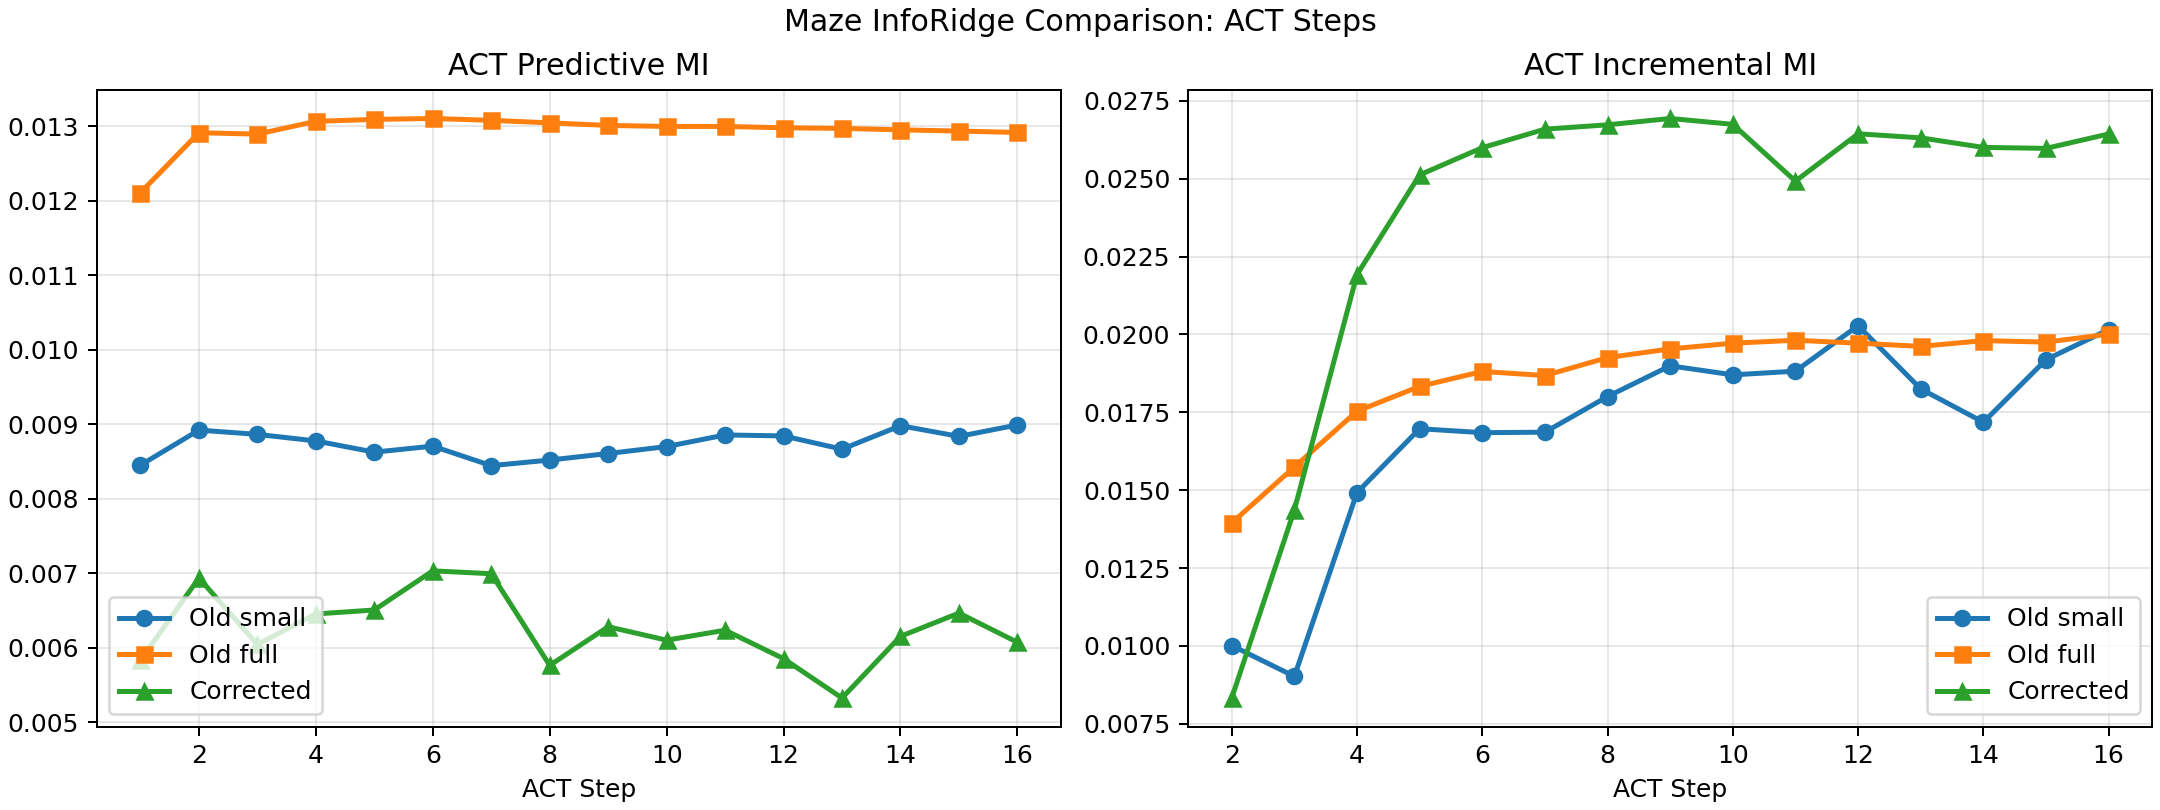
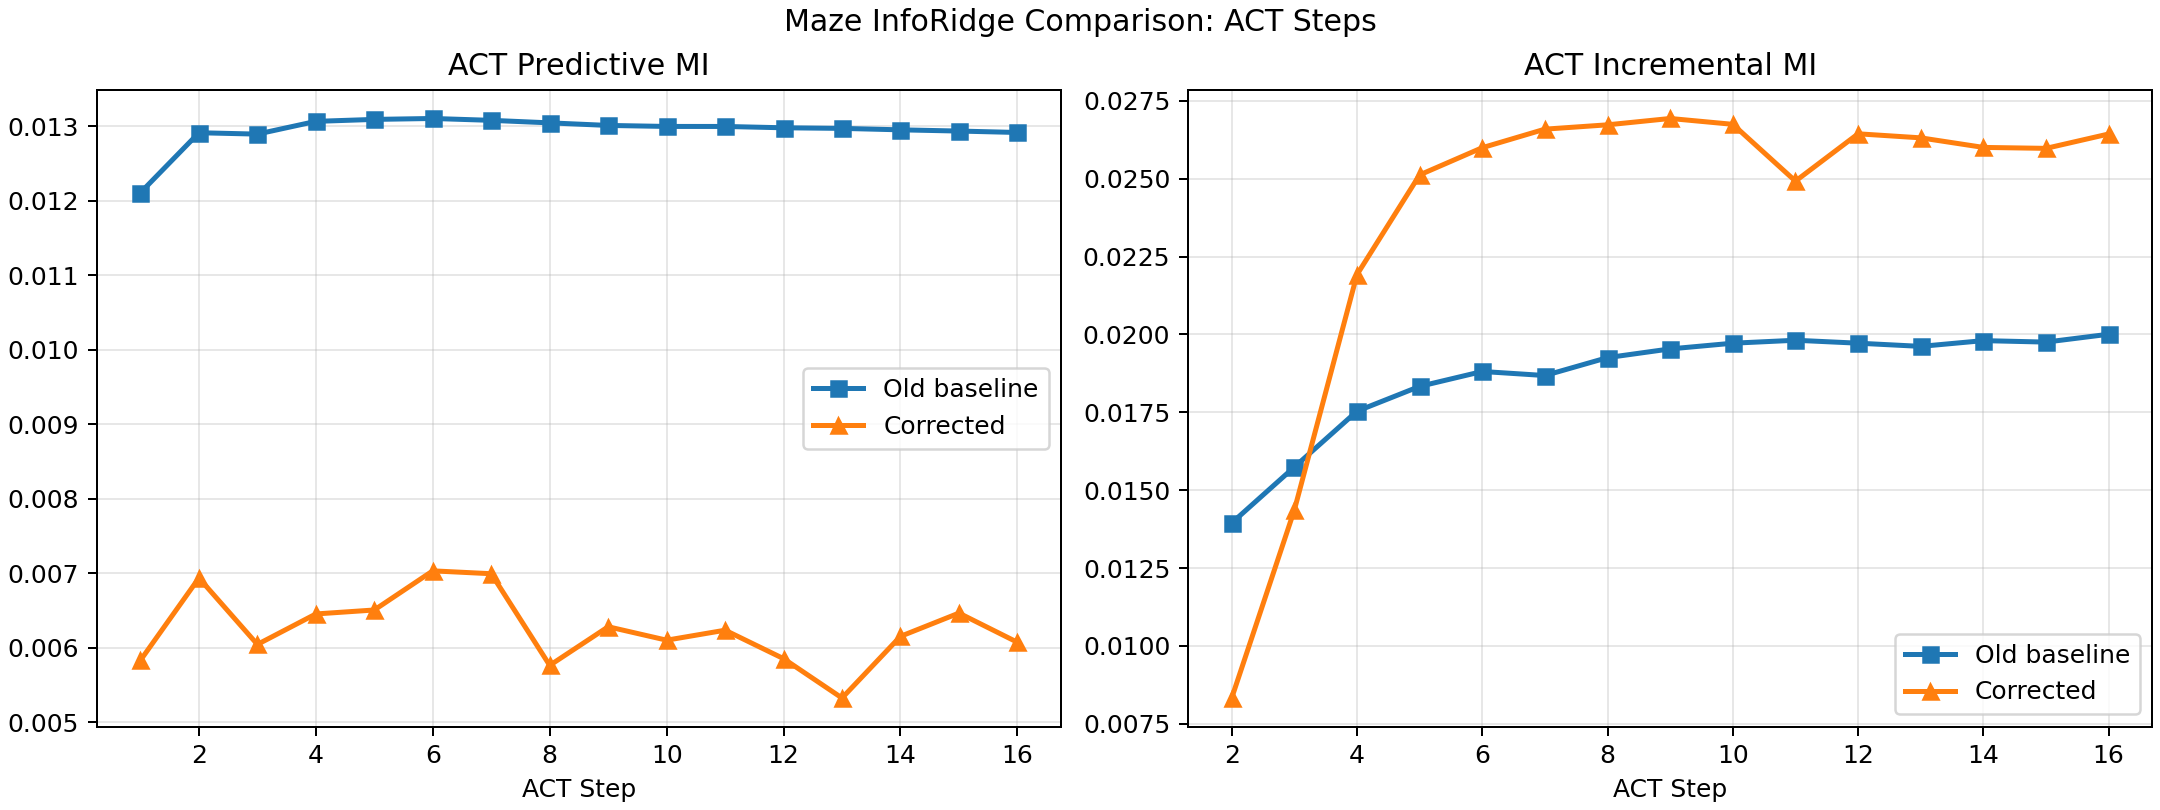
add gated residual learning

diff --git a/scripts/plot_maze_comparison.py b/scripts/plot_maze_comparison.py
@@ -55,6 +55,19 @@ def read_act(path: Path) -> dict[str, list[float]]:
     }
 
 
+def _panel_max(*series_lists: list[float]) -> float:
+    values = []
+    for series in series_lists:
+        values.extend(value for value in series if value == value)
+    return max(values) if values else 1.0
+
+
+def _scale_percent(series: list[float], denom: float) -> list[float]:
+    if denom <= 0:
+        return [float("nan") if value != value else 0.0 for value in series]
+    return [float("nan") if value != value else (100.0 * value / denom) for value in series]
+
+
 def plot_eval(old_eval: dict[str, list[float]], new_eval: dict[str, list[float]], output_path: Path) -> None:
     fig, axes = plt.subplots(2, 2, figsize=(12, 8), constrained_layout=True)
     series = [
@@ -93,8 +106,7 @@ def plot_layerwise(
     ]
 
     for layer_type, key, ax, title in panels:
-        ax.plot(old_small[layer_type]["layer_index"], old_small[layer_type][key], marker="o", linewidth=2, label="Old small")
-        ax.plot(old_full[layer_type]["layer_index"], old_full[layer_type][key], marker="s", linewidth=2, label="Old full")
+        ax.plot(old_full[layer_type]["layer_index"], old_full[layer_type][key], marker="s", linewidth=2, label="Old baseline")
         ax.plot(new[layer_type]["layer_index"], new[layer_type][key], marker="^", linewidth=2, label="Corrected")
         ax.set_title(title)
         ax.set_xlabel("Layer Index")
@@ -102,6 +114,52 @@ def plot_layerwise(
         ax.legend()
 
     fig.suptitle("Maze InfoRidge Comparison: Layerwise")
+    output_path.parent.mkdir(parents=True, exist_ok=True)
+    fig.savefig(output_path, dpi=180)
+    plt.close(fig)
+
+
+def plot_layerwise_percent(
+    old_small: dict[str, dict[str, list[float]]],
+    old_full: dict[str, dict[str, list[float]]],
+    new: dict[str, dict[str, list[float]]],
+    output_path: Path,
+) -> None:
+    fig, axes = plt.subplots(2, 2, figsize=(12, 8), constrained_layout=True)
+    panels = [
+        ("H", "I_Z_Y", axes[0, 0], "H Predictive MI (% of panel max)"),
+        ("L", "I_Z_Y", axes[0, 1], "L Predictive MI (% of panel max)"),
+        ("H", "I_dZ_Y", axes[1, 0], "H Incremental MI (% of panel max)"),
+        ("L", "I_dZ_Y", axes[1, 1], "L Incremental MI (% of panel max)"),
+    ]
+
+    for layer_type, key, ax, title in panels:
+        denom = _panel_max(
+            old_full[layer_type][key],
+            new[layer_type][key],
+        )
+        ax.plot(
+            old_full[layer_type]["layer_index"],
+            _scale_percent(old_full[layer_type][key], denom),
+            marker="s",
+            linewidth=2,
+            label="Old baseline",
+        )
+        ax.plot(
+            new[layer_type]["layer_index"],
+            _scale_percent(new[layer_type][key], denom),
+            marker="^",
+            linewidth=2,
+            label="Corrected",
+        )
+        ax.set_title(title)
+        ax.set_xlabel("Layer Index")
+        ax.set_ylabel("Percent")
+        ax.set_ylim(0, 105)
+        ax.grid(alpha=0.3)
+        ax.legend()
+
+    fig.suptitle("Maze InfoRidge Comparison: Layerwise (% of panel max)")
     output_path.parent.mkdir(parents=True, exist_ok=True)
     fig.savefig(output_path, dpi=180)
     plt.close(fig)
@@ -120,8 +178,7 @@ def plot_act(
     ]
 
     for key, ax, title in panels:
-        ax.plot(old_small["act_step"], old_small[key], marker="o", linewidth=2, label="Old small")
-        ax.plot(old_full["act_step"], old_full[key], marker="s", linewidth=2, label="Old full")
+        ax.plot(old_full["act_step"], old_full[key], marker="s", linewidth=2, label="Old baseline")
         ax.plot(new["act_step"], new[key], marker="^", linewidth=2, label="Corrected")
         ax.set_title(title)
         ax.set_xlabel("ACT Step")
@@ -129,6 +186,35 @@ def plot_act(
         ax.legend()
 
     fig.suptitle("Maze InfoRidge Comparison: ACT Steps")
+    output_path.parent.mkdir(parents=True, exist_ok=True)
+    fig.savefig(output_path, dpi=180)
+    plt.close(fig)
+
+
+def plot_act_percent(
+    old_small: dict[str, list[float]],
+    old_full: dict[str, list[float]],
+    new: dict[str, list[float]],
+    output_path: Path,
+) -> None:
+    fig, axes = plt.subplots(1, 2, figsize=(12, 4.5), constrained_layout=True)
+    panels = [
+        ("I_Z_Y", axes[0], "ACT Predictive MI (% of panel max)"),
+        ("I_dZ_Y", axes[1], "ACT Incremental MI (% of panel max)"),
+    ]
+
+    for key, ax, title in panels:
+        denom = _panel_max(old_full[key], new[key])
+        ax.plot(old_full["act_step"], _scale_percent(old_full[key], denom), marker="s", linewidth=2, label="Old baseline")
+        ax.plot(new["act_step"], _scale_percent(new[key], denom), marker="^", linewidth=2, label="Corrected")
+        ax.set_title(title)
+        ax.set_xlabel("ACT Step")
+        ax.set_ylabel("Percent")
+        ax.set_ylim(0, 105)
+        ax.grid(alpha=0.3)
+        ax.legend()
+
+    fig.suptitle("Maze InfoRidge Comparison: ACT Steps (% of panel max)")
     output_path.parent.mkdir(parents=True, exist_ok=True)
     fig.savefig(output_path, dpi=180)
     plt.close(fig)
@@ -150,10 +236,14 @@ def main() -> None:
     plot_eval(old_eval, new_eval, output_dir / "eval_comparison.png")
     plot_layerwise(old_small, old_full, new, output_dir / "layerwise_inforidge_comparison.png")
     plot_act(old_act, old_full_act, new_act, output_dir / "act_inforidge_comparison.png")
+    plot_layerwise_percent(old_small, old_full, new, output_dir / "layerwise_inforidge_percentage_comparison.png")
+    plot_act_percent(old_act, old_full_act, new_act, output_dir / "act_inforidge_percentage_comparison.png")
 
     print(f"Wrote {output_dir / 'eval_comparison.png'}")
     print(f"Wrote {output_dir / 'layerwise_inforidge_comparison.png'}")
     print(f"Wrote {output_dir / 'act_inforidge_comparison.png'}")
+    print(f"Wrote {output_dir / 'layerwise_inforidge_percentage_comparison.png'}")
+    print(f"Wrote {output_dir / 'act_inforidge_percentage_comparison.png'}")
 
 
 if __name__ == "__main__":

diff --git a/models/hrm/hrm_act_v1.py b/models/hrm/hrm_act_v1.py
@@ -54,6 +54,9 @@ class HierarchicalReasoningModel_ACTV1Config(BaseModel):
     halt_max_steps: int
     halt_exploration_prob: float
     eval_use_halt_policy: bool = False
+    carry_residual_gated: bool = False
+    carry_gate_init: float = 0.95
+    carry_gate_per_channel: bool = True
 
     forward_dtype: str = "bfloat16"
 
@@ -152,6 +155,13 @@ class HierarchicalReasoningModel_ACTV1_Inner(nn.Module):
             self.q_head.weight.zero_()
             self.q_head.bias.fill_(-5)  # type: ignore
 
+        if self.config.carry_residual_gated:
+            gate_init = min(max(float(self.config.carry_gate_init), 1e-4), 1.0 - 1e-4)
+            init_logit = math.log(gate_init / (1.0 - gate_init))
+            gate_shape = (self.config.hidden_size,) if self.config.carry_gate_per_channel else ()
+            self.carry_gate_H = nn.Parameter(torch.full(gate_shape, init_logit, dtype=torch.float32))
+            self.carry_gate_L = nn.Parameter(torch.full(gate_shape, init_logit, dtype=torch.float32))
+
     def _input_embeddings(self, input: torch.Tensor, puzzle_identifiers: torch.Tensor):
         # Token embedding
         embedding = self.embed_tokens(input.to(torch.int32))
@@ -185,6 +195,12 @@ class HierarchicalReasoningModel_ACTV1_Inner(nn.Module):
             z_H=torch.where(reset_flag.view(-1, 1, 1), self.H_init, carry.z_H),
             z_L=torch.where(reset_flag.view(-1, 1, 1), self.L_init, carry.z_L),
         )
+
+    def _blend_carry(self, prev: torch.Tensor, candidate: torch.Tensor, gate_param: torch.Tensor) -> torch.Tensor:
+        gate = torch.sigmoid(gate_param).to(candidate.dtype)
+        if gate.ndim == 1:
+            gate = gate.view(1, 1, -1)
+        return prev + (1.0 - gate) * (candidate - prev)
 
     def forward(self, carry: HierarchicalReasoningModel_ACTV1InnerCarry, batch: Dict[str, torch.Tensor], return_layer_states: bool = False, return_z: bool = False) -> Tuple[HierarchicalReasoningModel_ACTV1InnerCarry, torch.Tensor, Tuple[torch.Tensor, torch.Tensor], Optional[Dict[str, List[torch.Tensor]]], Optional[Tuple[torch.Tensor, torch.Tensor]]]:
         seq_info = dict(
@@ -220,6 +236,10 @@ class HierarchicalReasoningModel_ACTV1_Inner(nn.Module):
         else:
             z_L = self.L_level(z_L, z_H + input_embeddings, **seq_info)
             z_H = self.H_level(z_H, z_L, **seq_info)
+
+        if self.config.carry_residual_gated:
+            z_H = self._blend_carry(carry.z_H, z_H, self.carry_gate_H)
+            z_L = self._blend_carry(carry.z_L, z_L, self.carry_gate_L)
 
         # LM Outputs
         new_carry = HierarchicalReasoningModel_ACTV1InnerCarry(z_H=z_H.detach(), z_L=z_L.detach())  # New carry no grad

diff --git a/analysis/compare-maze-old-vs-corrected/summary.md b/analysis/compare-maze-old-vs-corrected/summary.md
@@ -1,120 +1,33 @@
-# Maze HRM Comparison: Old Run vs Corrected Run
+# Maze HRM: Old vs Corrected
 
-## Inputs compared
+This comparison was regenerated from the saved source CSVs after the comparison folder was removed.
 
-- Old training run: `analysis/hrm-training-step7810/eval_metrics.csv`
-- Old InfoRidge (small/full test variants): `analysis/inforidge-step7810/` and `analysis/inforidge-step7810-fulltest/`
-- Corrected training run: `analysis/hrm-training-4090-6gpu-corrected/eval_metrics.csv`
-- Corrected InfoRidge from the best checkpoint weights (`step_20832.pt`, loaded as model-only, so filenames use `step_0`): `analysis/inforidge-4090-6gpu-corrected-step20832/`
+## Selected Comparison Set
+
+- `Old`: same old checkpoint, InfoRidge from `analysis/inforidge-step7810-fulltest/`
+- `New-corrected`: corrected maze run, eval from `analysis/hrm-training-4090-6gpu-corrected/eval_metrics.csv`, InfoRidge from `analysis/inforidge-4090-6gpu-corrected-step20832/`
 
 ## Plots
 
-- Eval comparison: `analysis/compare-maze-old-vs-corrected/eval_comparison.png`
-- Layerwise InfoRidge comparison: `analysis/compare-maze-old-vs-corrected/layerwise_inforidge_comparison.png`
-- ACT-step InfoRidge comparison: `analysis/compare-maze-old-vs-corrected/act_inforidge_comparison.png`
+These displayed InfoRidge plots use one old baseline plus the corrected run.
 
-## Main outcome
+- `Old baseline` means the `Old-full` probe from `analysis/inforidge-step7810-fulltest/`
+- `Old-small` is kept only as a saved artifact in the repo, not as a displayed comparison curve
 
-The corrected run is a large improvement over the old run. The old run peaked at exact accuracy `0.068` on step `7810`. The corrected run peaked at exact accuracy `0.726` on step `20832`.
+![Eval Comparison](./eval_comparison.png)
 
-This means the earlier weak maze result was not evidence that HRM fundamentally fails on maze under the corrected setup. The corrected run clearly solves the task much better.
+![Layerwise InfoRidge Comparison](./layerwise_inforidge_comparison.png)
 
-## Evaluation comparison
+![ACT InfoRidge Comparison](./act_inforidge_comparison.png)
 
-Old run best checkpoint:
+## Percentage-Normalized InfoRidge Views
 
-- Step: `7810`
-- Accuracy: `0.9628268`
-- Exact accuracy: `0.068`
-- LM loss: `0.10443103`
-- Steps: `16.0`
+These two plots keep the same simplified baseline choice.
 
-Corrected run best checkpoint:
+Each panel is scaled so that the strongest value in that panel across the shown runs is `100%`.
 
-- Step: `20832`
-- Accuracy: `0.9912611`
-- Exact accuracy: `0.726`
-- LM loss: `0.04901285`
-- Steps: `16.0`
+![Layerwise InfoRidge Percentage Comparison](./layerwise_inforidge_percentage_comparison.png)
 
-Interpretation:
+![ACT InfoRidge Percentage Comparison](./act_inforidge_percentage_comparison.png)
 
-- Task performance improved dramatically.
-- The model still uses the full ACT budget (`16.0`) throughout evaluation.
-- The final corrected checkpoint (`34720`) collapses back to exact accuracy `0.065`, so checkpoint selection / early stopping matters.
-
-## Layerwise InfoRidge comparison
-
-Old small-test predictive MI:
-
-- `H`: `[0.5522, 0.5032, 0.5487, 0.5448]`
-- `L`: `[0.5750, 0.5732, 0.5687, 0.5374]`
-
-Old full-test predictive MI:
-
-- `H`: `[0.5387, 0.4975, 0.5435, 0.5327]`
-- `L`: `[0.5455, 0.5494, 0.5431, 0.5067]`
-
-Corrected run predictive MI:
-
-- `H`: `[0.5597, 0.5624, 0.4952, 0.4321]`
-- `L`: `[0.5147, 0.5300, 0.5514, 0.5456]`
-
-Ridge location shift:
-
-- Old small-test ridge: `H0`, `L0`
-- Old full-test ridge: `H2`, `L1`
-- Corrected ridge: `H1`, `L2`
-
-Interpretation:
-
-- The corrected successful run is more front-loaded in `H`: the strongest predictive MI is at `H1`, then later `H` layers fall off.
-- The corrected successful run is more back-loaded in `L`: the strongest predictive MI is at `L2`, with `L3` staying high.
-- Relative to the weak run, information appears to move away from shallow `L0/L1` dominance and toward deeper low-level processing.
-
-## ACT-step InfoRidge comparison
-
-Old small-test ACT predictive MI:
-
-- First: `0.00845`
-- Max: `0.00899`
-- Max incremental MI: `0.02028`
-
-Old full-test ACT predictive MI:
-
-- First: `0.01211`
-- Max: `0.01311`
-- Max incremental MI: `0.02001`
-
-Corrected ACT predictive MI:
-
-- First: `0.00583`
-- Max: `0.00703`
-- Max incremental MI: `0.02694`
-
-Interpretation:
-
-- Absolute ACT predictive MI is lower in the corrected successful run.
-- ACT incremental MI is higher in the corrected successful run.
-- So the corrected run does not win by having a more information-rich pooled ACT state at each step. It wins by making larger representation changes across ACT steps.
-
-This is important: absolute `I(Z;Y)` at the ACT-step level is not monotonic with task success in these saved runs. The more useful signal here is the stronger per-step update magnitude (`I(dZ;Y)`).
-
-## Decision
-
-Move forward with HRM on maze under the corrected training setup.
-
-Do not use the old weak maze run as the main reference anymore. It is now dominated by the corrected run.
-
-However, do not interpret the corrected run as solving everything:
-
-- Adaptive halting still did not emerge. Evaluation stayed at `16.0` steps.
-- Late training degrades sharply, so early stopping / best-checkpoint selection is required.
-- InfoRidge suggests the successful run changes *where* information is concentrated rather than simply increasing all InfoRidge metrics.
-
-## Recommended next steps
-
-1. Treat `step_20832.pt` as the main maze checkpoint for follow-up analysis.
-2. Use best-checkpoint selection by eval exact accuracy, not final checkpoint.
-3. Keep the corrected optimization setup for future maze experiments.
-4. If the next research question is about ACT itself, focus on halting and ACT-step dynamics, because task performance improved while halting behavior did not.
+#
